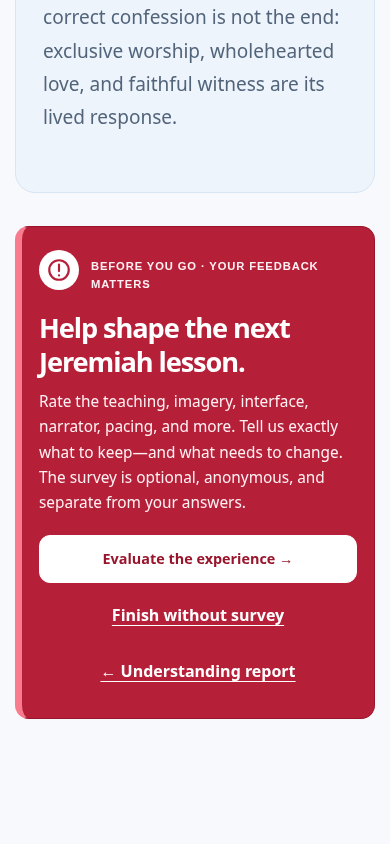
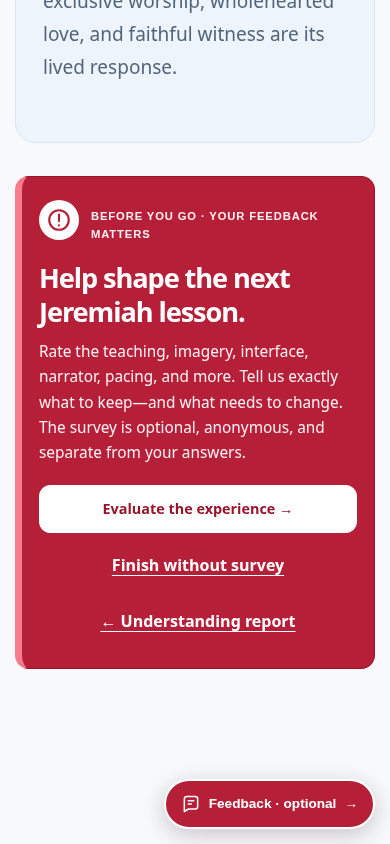
Make optional feedback reachable with a floating summary action

diff --git a/app/src/features/classroom/OG1LessonPlayer.jsx b/app/src/features/classroom/OG1LessonPlayer.jsx
@@ -293,7 +293,7 @@ export default function OG1LessonPlayer({content,state,onStateChange,onNavigate}
    {finish?(completionScreen==='survey'?<OG1PilotSurvey completed onDone={()=>onNavigate(window.sessionStorage.getItem('jeremiah-pilot-active')==='1'?ROUTES.PILOT:ROUTES.CLASSROOM_STUDY)}/>:completionScreen==='understanding'?<section className="ogp-finish ogp-finish--understanding" aria-labelledby="ogp-understanding-title">
  <div className="ogp-depth-report"><span className="ogp-understanding-eyebrow">YOUR LEARNING · OG.1</span><h1 id="ogp-understanding-title">Your Understanding</h1><p className="ogp-understanding-level">Level {finalRating.level} · {finalRating.label}</p><p>Weighted performance: {finalRating.score===null?'Not assessed':finalRating.score+'%'} · Evidence coverage: {finalRating.coverage}%</p><p>{finalRating.meaning}</p><p>{finalRating.note}</p><div className="ogp-depth-report-list">{finalRating.standards.map(item=><div key={item.standardId}><strong>{item.standardId}</strong><span>Level {item.level} · {item.label}</span><small>Weighted performance: {item.score===null?'Not assessed':item.score+'%'} · Evidence coverage: {item.coverage}%</small>{item.recitationVerified!==null&&<small>Deuteronomy 6:4 KJV recitation: {item.recitationVerified?'Verified in the recall check':item.recitationAttempted?'Attempted; not yet verified':'Not yet attempted'}</small>}<p>{item.meaning}</p><small><strong>What you demonstrated:</strong> {item.evidence}</small><small><strong>What to work on next:</strong> {item.nextStep}</small></div>)}</div></div>
  <div className="ogp-finish-actions"><button type="button" className="ogp-action" onClick={()=>{setCompletionScreen('summary');window.scrollTo({top:0,behavior:'auto'})}}>Continue to final summary →</button><button type="button" className="ogp-back" onClick={()=>setCompletionScreen('exam')}>Review assessment <LessonIcon name="context"/></button></div>
- </section>:completionScreen==='summary'?<section className="ogp-finish ogp-finish--synthesis" aria-label="Final lesson summary"><OG1FinalSynthesis onOpenBible={readVerse}/><div className="ogp-finish-survey-invite" role="region" aria-labelledby="ogp-feedback-notice-title"><div className="ogp-feedback-notice-label"><svg viewBox="0 0 24 24" width="26" height="26" fill="none" stroke="currentColor" strokeWidth="2" strokeLinecap="round" aria-hidden="true"><circle cx="12" cy="12" r="9"/><path d="M12 7v6m0 4h.01"/></svg><span>BEFORE YOU GO · YOUR FEEDBACK MATTERS</span></div><h2 id="ogp-feedback-notice-title">Help shape the next Jeremiah lesson.</h2><p>Rate the teaching, imagery, interface, narrator, pacing, and more. Tell us exactly what to keep—and what needs to change. The survey is optional, anonymous, and separate from your answers.</p><div className="ogp-finish-actions"><button type="button" className="ogp-action" onClick={()=>{setCompletionScreen('survey');window.scrollTo({top:0,behavior:'auto'})}}>Evaluate the experience →</button><button type="button" className="ogp-back" onClick={()=>onNavigate(window.sessionStorage.getItem('jeremiah-pilot-active')==='1'?ROUTES.PILOT:ROUTES.CLASSROOM_STUDY)}>Finish without survey</button><button type="button" className="ogp-back" onClick={()=>{setCompletionScreen('understanding');window.scrollTo({top:0,behavior:'auto'})}}>← Understanding report</button></div></div></section>:<OG1ExitExam state={state} onStateChange={onStateChange} onReadBible={readVerse} onContinue={()=>{setCompletionScreen('understanding');window.scrollTo({top:0,behavior:'auto'})}}/>):<>
+ </section>:completionScreen==='summary'?<section className="ogp-finish ogp-finish--synthesis" aria-label="Final lesson summary"><button type="button" className="ogp-floating-feedback" onClick={()=>{setCompletionScreen('survey');window.scrollTo({top:0,behavior:'auto'})}}><svg viewBox="0 0 24 24" width="20" height="20" fill="none" stroke="currentColor" strokeWidth="1.8" strokeLinejoin="round" aria-hidden="true"><path d="M20 15a3 3 0 0 1-3 3H9l-5 3V6a3 3 0 0 1 3-3h10a3 3 0 0 1 3 3z"/><path d="M8 8h8M8 12h5"/></svg>Feedback · optional <span aria-hidden="true">→</span></button><OG1FinalSynthesis onOpenBible={readVerse}/><div className="ogp-finish-survey-invite" role="region" aria-labelledby="ogp-feedback-notice-title"><div className="ogp-feedback-notice-label"><svg viewBox="0 0 24 24" width="26" height="26" fill="none" stroke="currentColor" strokeWidth="2" strokeLinecap="round" aria-hidden="true"><circle cx="12" cy="12" r="9"/><path d="M12 7v6m0 4h.01"/></svg><span>BEFORE YOU GO · YOUR FEEDBACK MATTERS</span></div><h2 id="ogp-feedback-notice-title">Help shape the next Jeremiah lesson.</h2><p>Rate the teaching, imagery, interface, narrator, pacing, and more. Tell us exactly what to keep—and what needs to change. The survey is optional, anonymous, and separate from your answers.</p><div className="ogp-finish-actions"><button type="button" className="ogp-action" onClick={()=>{setCompletionScreen('survey');window.scrollTo({top:0,behavior:'auto'})}}>Evaluate the experience →</button><button type="button" className="ogp-back" onClick={()=>onNavigate(window.sessionStorage.getItem('jeremiah-pilot-active')==='1'?ROUTES.PILOT:ROUTES.CLASSROOM_STUDY)}>Finish without survey</button><button type="button" className="ogp-back" onClick={()=>{setCompletionScreen('understanding');window.scrollTo({top:0,behavior:'auto'})}}>← Understanding report</button></div></div></section>:<OG1ExitExam state={state} onStateChange={onStateChange} onReadBible={readVerse} onContinue={()=>{setCompletionScreen('understanding');window.scrollTo({top:0,behavior:'auto'})}}/>):<>
     <section key={move.id+':'+moment} ref={stageRef} tabIndex={-1} className={`ogp-stage ogp-stage--${sceneClass}`} aria-label={current.verb+' learning moment'} data-workspace={writingWorkspace||undefined}>
      {!writingWorkspace&&(move.id!=='learn'||current.kind!=='read')&&!['identity','return','mission','roadmap','doctrine-summary'].includes(current.kind)&&!current.kind?.startsWith('shema-')&&<><span className="ogp-verb"><span className="ogp-verb-dash"/> {current.verb}</span><h1>{current.title}</h1></>}
      {current.kind==='roadmap'&&null}

diff --git a/app/src/features/classroom/JeremiahLessonTheme.css b/app/src/features/classroom/JeremiahLessonTheme.css
@@ -154,3 +154,10 @@
  .ogp-stage2 .og1-synthesis-head h2,.ogp-stage2 .og1-return-heading h2{font-size:clamp(1.65rem,6.5vw,2.6rem)}
 }
 @media(prefers-reduced-motion:reduce){.ogp-page.ogp-stage2 .ogp-action{transition:none}}
+
+/* Summary-only shortcut: visible before the end-of-page invitation is reached. */
+.ogp-page.ogp-stage2 .ogp-finish--synthesis{padding-bottom:100px}
+.ogp-page.ogp-stage2 .ogp-floating-feedback{position:fixed;right:max(20px,env(safe-area-inset-right));bottom:calc(20px + env(safe-area-inset-bottom));z-index:40;display:inline-flex;align-items:center;gap:10px;min-height:50px;padding:13px 18px;border:2px solid #fff;border-radius:999px;background:#b51f38;color:#fff;font:750 .85rem/1.4 var(--font-body);box-shadow:0 6px 22px #31132138;cursor:pointer}
+.ogp-page.ogp-stage2 .ogp-floating-feedback:hover{background:#99152c}
+.ogp-page.ogp-stage2 .ogp-floating-feedback:focus-visible{outline:3px solid #172f43;outline-offset:3px}
+@media(max-width:600px){.ogp-page.ogp-stage2 .ogp-floating-feedback{right:max(15px,env(safe-area-inset-right));bottom:calc(15px + env(safe-area-inset-bottom));gap:8px;padding:12px 15px}}

diff --git a/docs/VISUAL_READABILITY_FOLLOWUP.md b/docs/VISUAL_READABILITY_FOLLOWUP.md
@@ -25,6 +25,10 @@ Replaced the pale blue surface with deep red, a bright accent edge, a prominent 
 
 The original optional/anonymous/separate-from-answers wording and all three existing action handlers are retained. No survey schema, submission/backend or scoring changes.
 
+A red **Feedback · optional** floating button is visible immediately on the final summary, before the learner reaches this invitation. It opens the optional survey directly and disappears on the survey or any lesson screen. Safe-area spacing and extra summary bottom padding keep the final content scrollable above it.
+
+Floating shortcut at the top of the summary: [Phone](feedback-notice-evidence/after/390-floating-top.png), [Desktop](feedback-notice-evidence/after/1440-floating-top.png).
+
 | Viewport | Before | After |
 | --- | --- | --- |
 | Phone | ![Before phone](feedback-notice-evidence/before/390-feedback-detail.png) | ![After phone](feedback-notice-evidence/after/390-feedback-detail.png) |
@@ -36,7 +40,7 @@ These are actual Chromium screenshots with targeted Chapter 5/completed-exam sta
 
 - Production build: pass.
 - Chapter 5 contrast browser check: pass on phone and desktop, contrast >=4.5:1 for all heading-panel text and no horizontal overflow. Actual values are in `return-contrast-evidence/{before,after}/contrast.json`.
-- Feedback browser check: pass on phone/desktop, labelled notice, 44px actions, no horizontal overflow, report navigation, explicit finish-without-survey, returning to the completed lesson and opening the optional survey. Existing exam/history/evidence/mastery remain unchanged. The existing completion flag can update normally upon reentry.
+- Feedback browser check: pass on phone/desktop, labelled notice, 44px actions, no horizontal overflow, report navigation, floating shortcut visible at initial scroll with a >=44px target, direct survey entry and shortcut removal, explicit finish-without-survey, returning to the completed lesson and opening the optional survey. Existing exam/history/evidence/mastery remain unchanged. The existing completion flag can update normally upon reentry.
 - Existing Stage 1 browser suite: pass, including full exam/report/summary/survey and restart archives.
 - Existing climax, theme consistency and pilot-feedback tests: pass.
 
